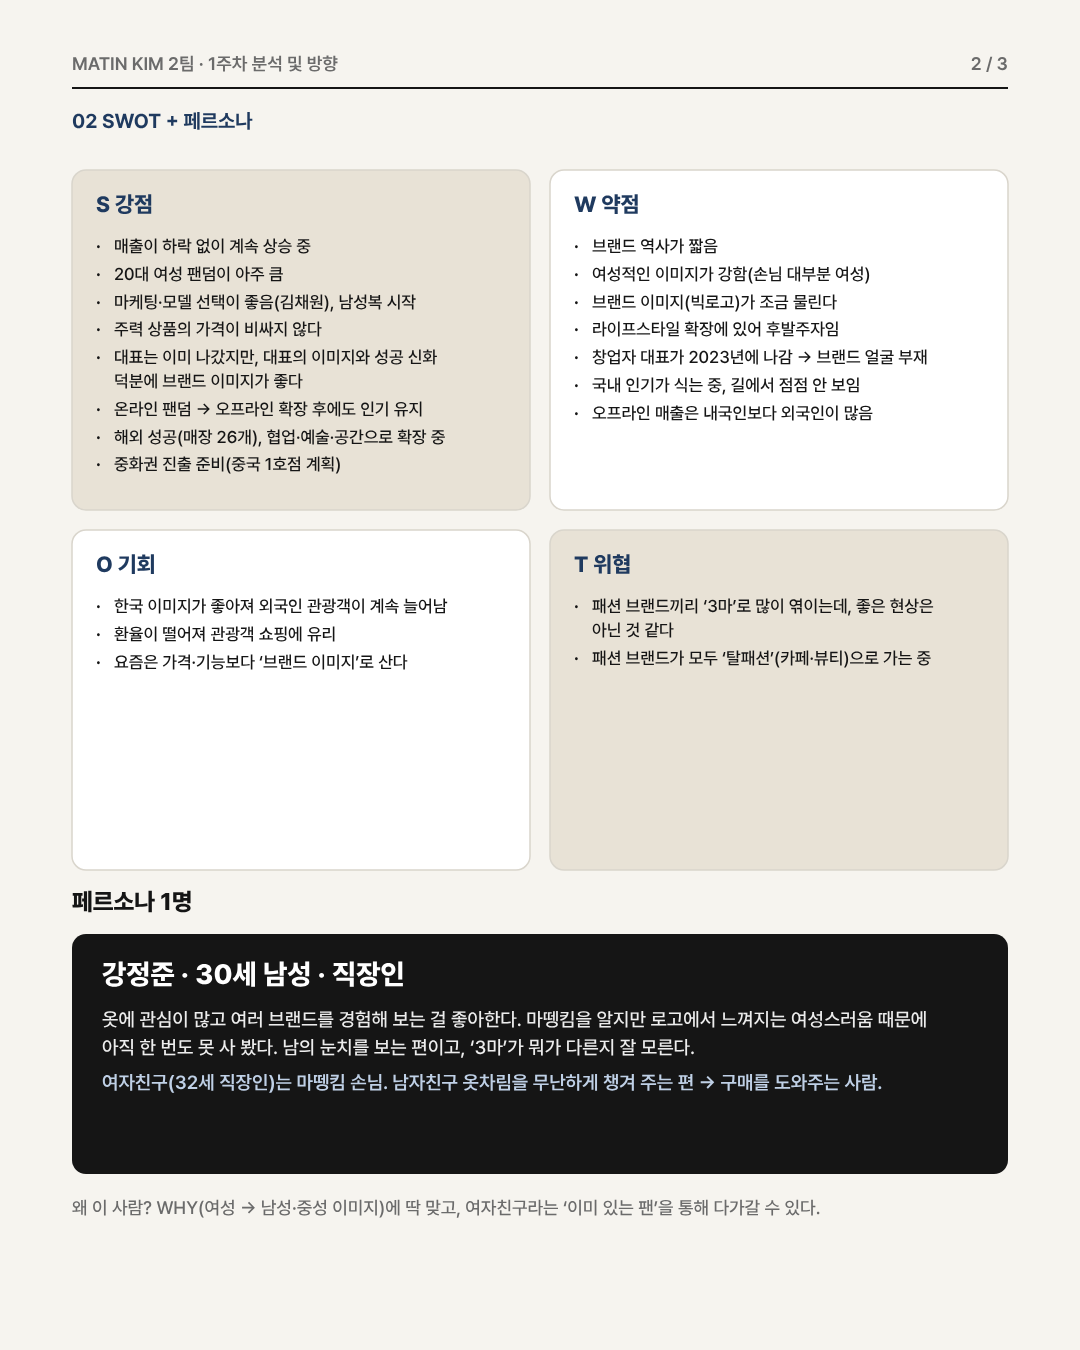
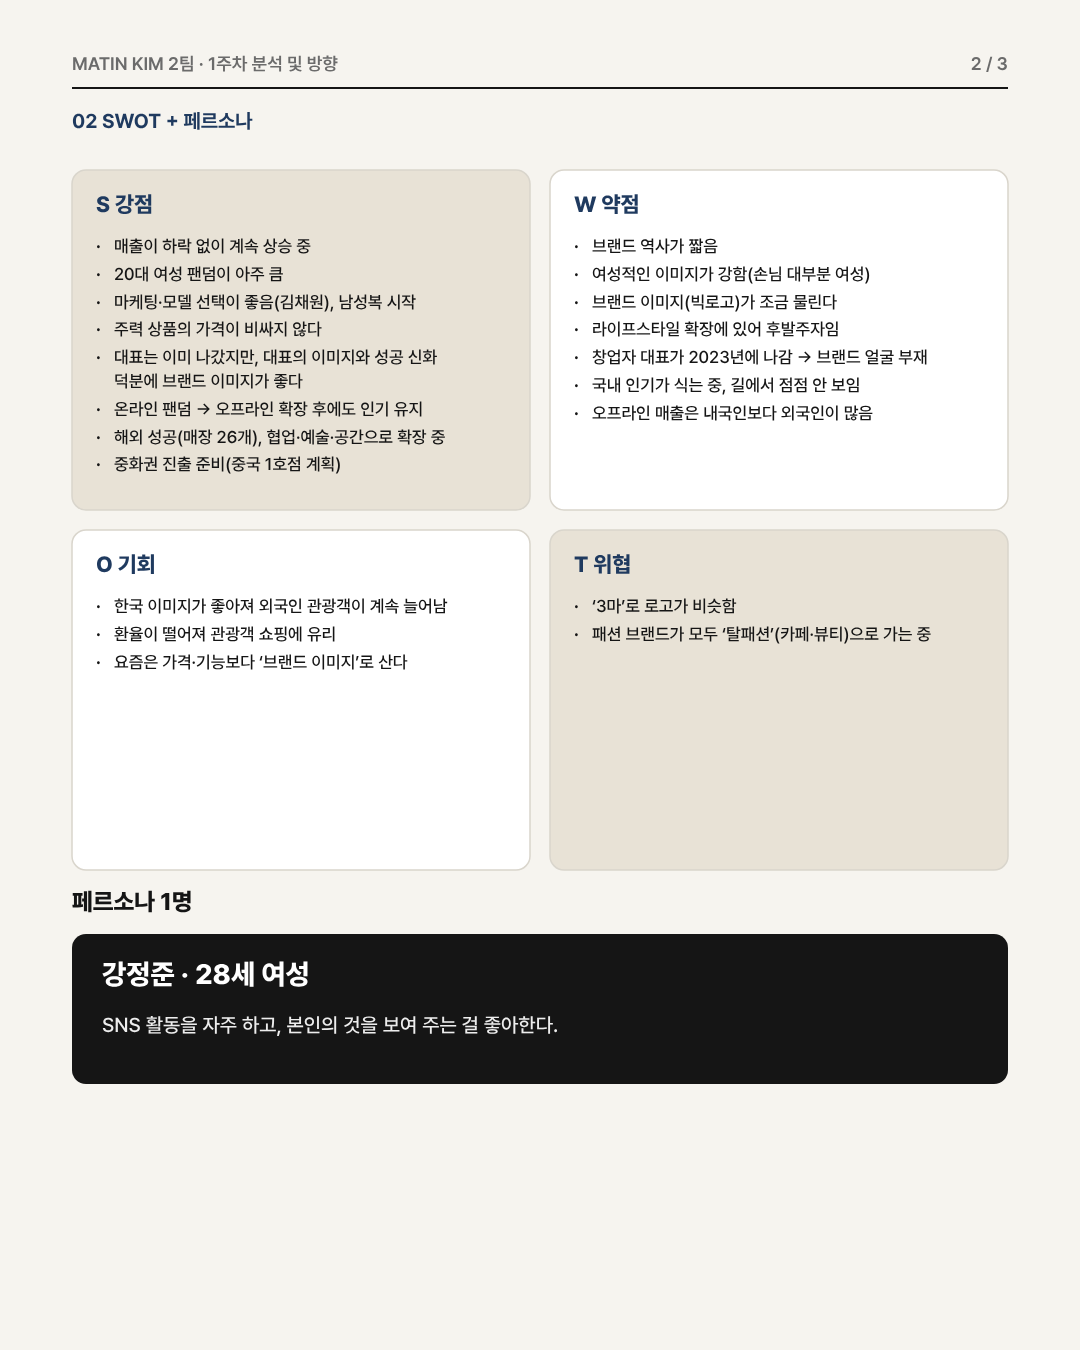
마뗑킴 1주차: 페르소나를 28세 여성으로, 위협을 '3마로 로고가 비슷함'으로 바꾸고 브랜드 현황 '기본' 줄을 뺌
Claude-Session: https://claude.ai/code/session_01VwLjVAGVevWminy8McjiU3

Changed region(s): [[0.0611, 0.7156, 0.9472, 0.9022], [0.55, 0.4356, 0.8556, 0.4978]]

diff --git a/개인공부/마케팅교육/마뗑킴_1주차_제출.md b/개인공부/마케팅교육/마뗑킴_1주차_제출.md
@@ -9,7 +9,6 @@
 
 | 항목 | 내용 |
 |---|---|
-| 기본 | 하고하우스 운영 · 2025년 매출 2,201억(+33.9%), 영업이익 445억 · '3마' 중 1위 |
 | 주력 상품 | 가방 · 지갑 · 빅로고 티 |
 | 주요 채널 | 인스타그램 |
 | 최근 캠페인 (2026) | 앰버서더 5명: 리즈(봄) · 제노(여름, 첫 남성) · 모모(가을, 남녀 공용) · 리노(FW) · 김채원(겨울 'The New Wind') |
@@ -29,17 +28,13 @@
 |---|---|
 | · 매출이 계속 오름(하락 없이 상승 중) <br>· 20대에게 좋은 브랜드 이미지, 여성 팬덤이 아주 큼 <br>· 마케팅을 잘함 — 모델 선택이 좋음(김채원), 남성복도 시작 <br>· 주력 상품의 가격이 비싸지 않다 <br>· 대표는 이미 나갔지만, 대표의 이미지와 성공 신화 덕분에 브랜드 이미지가 좋다 <br>· 온라인 팬덤 → 오프라인으로 넓힌 뒤에도 인기 유지 <br>· 해외에서도 성공(해외 매장 26개) <br>· 올해 협업 · 예술 · 문화 공간으로 영역을 넓히는 중 <br>· 중화권 진출 준비(중국 1호점 계획) | · 브랜드 역사가 짧음 <br>· 여성적인 이미지가 강함(실제 손님도 대부분 여성) <br>· 브랜드 이미지(빅로고)가 조금 물린다 <br>· 라이프스타일 확장에 있어 후발주자임 <br>· 창업자(김다인) 대표가 2023년에 나감 → 브랜드 얼굴이 없어짐 <br>· 국내 인기가 식는 중 — 길에서 점점 안 보임 <br>· 오프라인 매장 매출은 내국인보다 외국인이 많음 |
 | **기회 O** | **위협 T** |
-| · 한국 이미지가 좋아져 외국인 관광객이 계속 늘어남 <br>· 환율이 떨어지고 있어 관광객이 쇼핑하기 좋음 <br>· 요즘 소비는 가격 · 기능보다 '브랜드 이미지'로 산다 | · 패션 브랜드끼리 '3마'로 많이 엮이는데, 좋은 현상은 아닌 것 같다 <br>· 패션 브랜드들이 모두 '탈패션'(카페 · 뷰티)으로 가는 중 |
+| · 한국 이미지가 좋아져 외국인 관광객이 계속 늘어남 <br>· 환율이 떨어지고 있어 관광객이 쇼핑하기 좋음 <br>· 요즘 소비는 가격 · 기능보다 '브랜드 이미지'로 산다 | · '3마'로 로고가 비슷함 <br>· 패션 브랜드들이 모두 '탈패션'(카페 · 뷰티)으로 가는 중 |
 
 **→ 그래서:** 강점(팬덤 · 마케팅 · 관광객)으로 약점(여성 이미지 · 로고 피로)을 덮는다. 옷이 아닌 **가벼운 물건부터** 브랜드를 넓힌다.
 
-**페르소나 1명 (추천: 남성 30세)**
+**페르소나 1명**
 
-> **강정준, 30세 남성, 직장인.** 옷에 관심이 많고 여러 브랜드를 경험해 보는 걸 좋아한다. 마뗑킴을 알지만, 로고에서 느껴지는 여성스러움 때문에 아직 한 번도 못 사 봤다. 남의 눈치를 보는 편이다. '3마'가 뭐가 다른지 잘 모른다.
-> 여자친구(32세 직장인)가 마뗑킴 손님이고, 남자친구 옷차림을 챙겨 주는 편이다.
-
-- 왜 이 사람인가: WHY(여성 → 남성 · 중성 이미지)에 딱 맞는 사람. 여자친구라는 '이미 있는 팬'을 통해 다가갈 수 있다.
-- 다른 후보(여성 32세 김여자 — 무난한 남자친구 옷을 챙기는 사람)는 이 페르소나의 **구매를 도와주는 사람**으로 넣는다.
+> **강정준, 28세 여성.** SNS 활동을 자주 하고, 본인의 것을 보여 주는 걸 좋아한다.
 
 ---
 
@@ -60,7 +55,6 @@
 ---
 
 ## 2주차 대면 미팅 때 정할 것
-- 페르소나: 남성 30세로 가도 되는지
 
 ## 확인 필요
 - "중화권 1,615억 규모 매출계약 체결" — 피그마 메모의 기사 제목. 기사 링크를 아직 못 찾음 → 출처 확인 후 SWOT 기회에 숫자로 넣기
